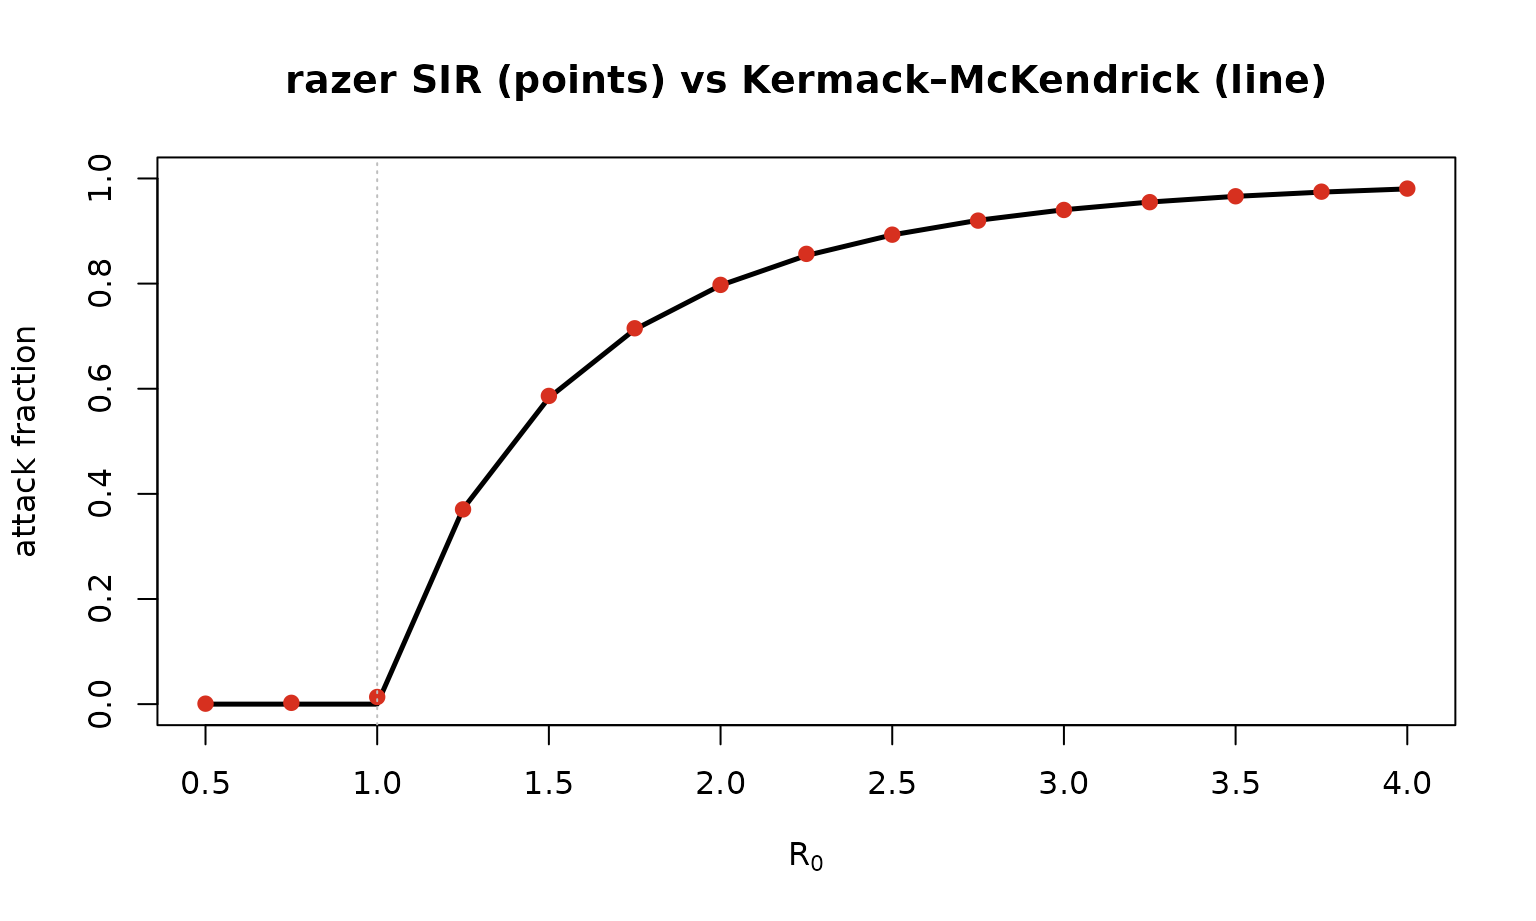
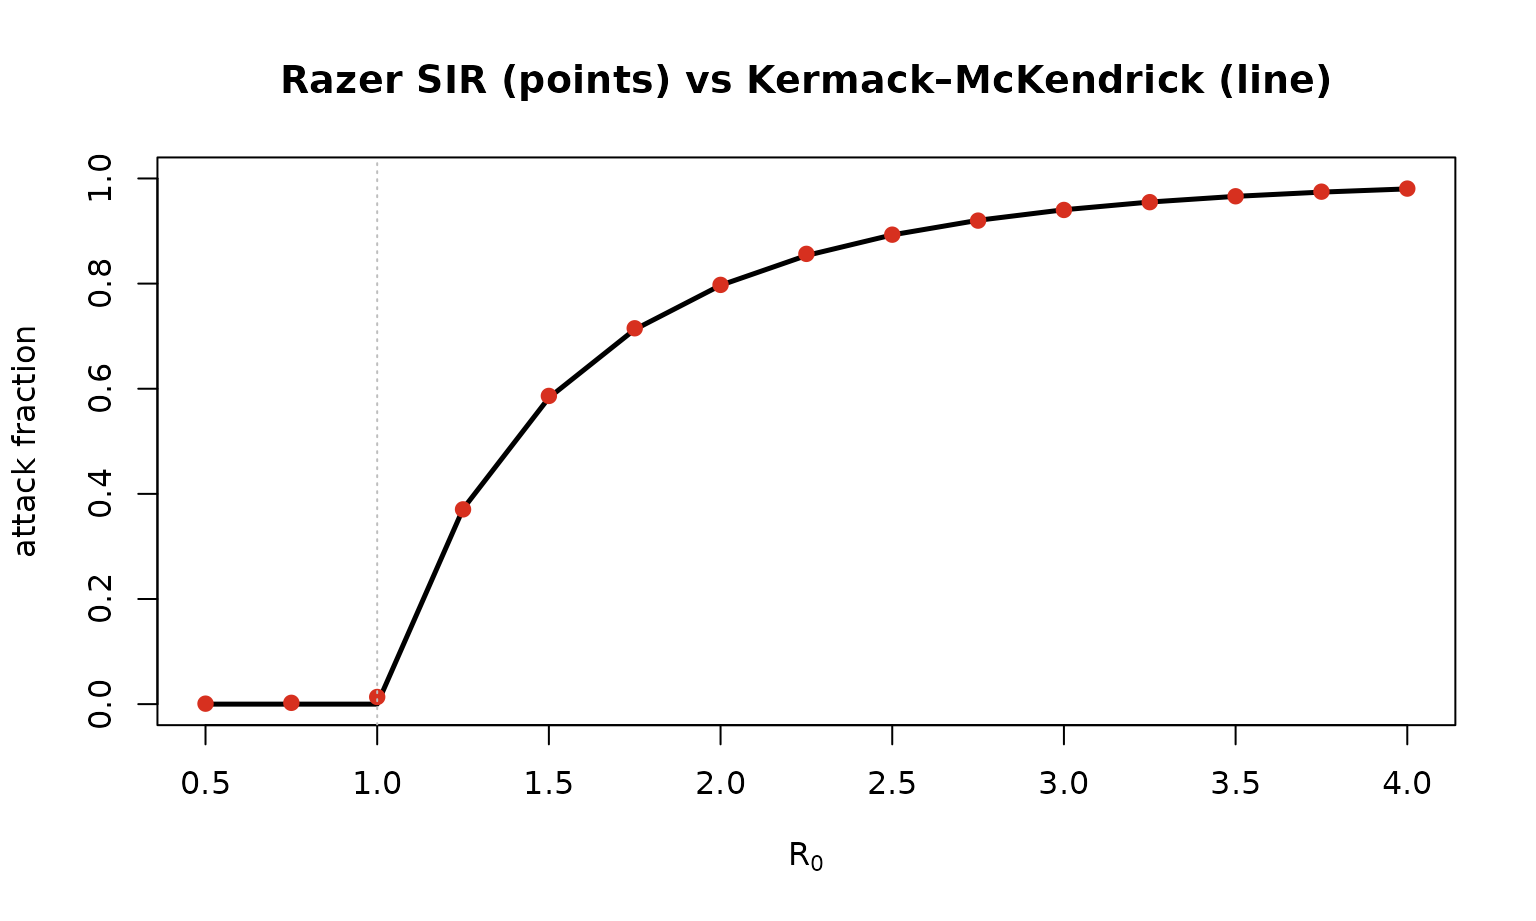
Deploying to gh-pages from @ clorton/razer@750507f7de2c34c25a90249725f2f9b4e3656f35 🚀

Changed region(s): [[0.1875, 0.0608, 0.875, 0.1216]]

diff --git a/articles/attack_fraction.html b/articles/attack_fraction.html
@@ -109,10 +109,10 @@ depends on
 and
 <math display="inline" xmlns="http://www.w3.org/1998/Math/MathML"><semantics><mi>D</mi><annotation encoding="application/x-tex">D</annotation></semantics></math>
 separately, and not on any latent period. We’ll test all of that against
-razer’s stochastic, agent-based simulation.</p>
+Razer’s stochastic, agent-based simulation.</p>
 </div>
 <div class="section level2">
-<h2 id="how-razer-builds-an-sir-and-why-r₀-βd-exactly">How razer builds an SIR — and why R₀ = β·D exactly<a class="anchor" aria-label="anchor" href="#how-razer-builds-an-sir-and-why-r%E2%82%80-%CE%B2d-exactly"></a>
+<h2 id="how-razer-builds-an-sir-and-why-r₀-βd-exactly">How Razer builds an SIR — and why R₀ = β·D exactly<a class="anchor" aria-label="anchor" href="#how-razer-builds-an-sir-and-why-r%E2%82%80-%CE%B2d-exactly"></a>
 </h2>
 <p><code><a href="../reference/run_model.html">run_model()</a></code> advances an <strong>agent-based</strong>
 SIR: every individual is a row in Rust-owned <code>Column</code> arrays
@@ -178,7 +178,7 @@ Kermack–McKendrick curve.</p>
 <span></span>
 <span><span class="fu"><a href="https://rdrr.io/r/graphics/plot.default.html" class="external-link">plot</a></span><span class="op">(</span><span class="va">R0_grid</span>, <span class="va">km</span>, type <span class="op">=</span> <span class="st">"l"</span>, lwd <span class="op">=</span> <span class="fl">2.5</span>, ylim <span class="op">=</span> <span class="fu"><a href="https://rdrr.io/r/base/c.html" class="external-link">c</a></span><span class="op">(</span><span class="fl">0</span>, <span class="fl">1</span><span class="op">)</span>,</span>
 <span>     xlab <span class="op">=</span> <span class="fu"><a href="https://rdrr.io/r/base/expression.html" class="external-link">expression</a></span><span class="op">(</span><span class="va">R</span><span class="op">[</span><span class="fl">0</span><span class="op">]</span><span class="op">)</span>, ylab <span class="op">=</span> <span class="st">"attack fraction"</span>,</span>
-<span>     main <span class="op">=</span> <span class="st">"razer SIR (points) vs Kermack–McKendrick (line)"</span><span class="op">)</span></span>
+<span>     main <span class="op">=</span> <span class="st">"Razer SIR (points) vs Kermack–McKendrick (line)"</span><span class="op">)</span></span>
 <span><span class="fu"><a href="https://rdrr.io/r/graphics/points.html" class="external-link">points</a></span><span class="op">(</span><span class="va">R0_grid</span>, <span class="va">sim</span>, pch <span class="op">=</span> <span class="fl">19</span>, col <span class="op">=</span> <span class="st">"#d7301f"</span><span class="op">)</span>; <span class="fu"><a href="https://rdrr.io/r/graphics/abline.html" class="external-link">abline</a></span><span class="op">(</span>v <span class="op">=</span> <span class="fl">1</span>, lty <span class="op">=</span> <span class="fl">3</span>, col <span class="op">=</span> <span class="st">"grey"</span><span class="op">)</span></span></code></pre></div>
 <p><img src="attack_fraction_files/figure-html/km-1.png" class="r-plt" alt="" width="768"></p>
 <div class="sourceCode" id="cb6"><pre class="downlit sourceCode r">
@@ -215,7 +215,7 @@ obeying the <em>same</em> relation in
 <span><span class="fu"><a href="https://rdrr.io/r/graphics/plot.default.html" class="external-link">plot</a></span><span class="op">(</span><span class="va">R0_grid</span>, <span class="va">km</span>, type <span class="op">=</span> <span class="st">"l"</span>, lwd <span class="op">=</span> <span class="fl">2.5</span>, ylim <span class="op">=</span> <span class="fu"><a href="https://rdrr.io/r/base/c.html" class="external-link">c</a></span><span class="op">(</span><span class="fl">0</span>, <span class="fl">1</span><span class="op">)</span>, xlab <span class="op">=</span> <span class="fu"><a href="https://rdrr.io/r/base/expression.html" class="external-link">expression</a></span><span class="op">(</span><span class="va">R</span><span class="op">[</span><span class="fl">0</span><span class="op">]</span><span class="op">)</span>,</span>
 <span>     ylab <span class="op">=</span> <span class="st">"attack fraction"</span>, main <span class="op">=</span> <span class="st">"SEIR matches the same final-size curve"</span><span class="op">)</span></span>
 <span><span class="fu"><a href="https://rdrr.io/r/graphics/points.html" class="external-link">points</a></span><span class="op">(</span><span class="va">R0_grid</span>, <span class="va">sim_se</span>, pch <span class="op">=</span> <span class="fl">17</span>, col <span class="op">=</span> <span class="st">"#7570b3"</span><span class="op">)</span>; <span class="fu"><a href="https://rdrr.io/r/graphics/abline.html" class="external-link">abline</a></span><span class="op">(</span>v <span class="op">=</span> <span class="fl">1</span>, lty <span class="op">=</span> <span class="fl">3</span>, col <span class="op">=</span> <span class="st">"grey"</span><span class="op">)</span></span>
-<span><span class="fu"><a href="https://rdrr.io/r/graphics/legend.html" class="external-link">legend</a></span><span class="op">(</span><span class="st">"bottomright"</span>, <span class="fu"><a href="https://rdrr.io/r/base/c.html" class="external-link">c</a></span><span class="op">(</span><span class="st">"Kermack–McKendrick"</span>, <span class="st">"razer SEIR"</span><span class="op">)</span>, pch <span class="op">=</span> <span class="fu"><a href="https://rdrr.io/r/base/c.html" class="external-link">c</a></span><span class="op">(</span><span class="cn">NA</span>, <span class="fl">17</span><span class="op">)</span>,</span>
+<span><span class="fu"><a href="https://rdrr.io/r/graphics/legend.html" class="external-link">legend</a></span><span class="op">(</span><span class="st">"bottomright"</span>, <span class="fu"><a href="https://rdrr.io/r/base/c.html" class="external-link">c</a></span><span class="op">(</span><span class="st">"Kermack–McKendrick"</span>, <span class="st">"Razer SEIR"</span><span class="op">)</span>, pch <span class="op">=</span> <span class="fu"><a href="https://rdrr.io/r/base/c.html" class="external-link">c</a></span><span class="op">(</span><span class="cn">NA</span>, <span class="fl">17</span><span class="op">)</span>,</span>
 <span>       lwd <span class="op">=</span> <span class="fu"><a href="https://rdrr.io/r/base/c.html" class="external-link">c</a></span><span class="op">(</span><span class="fl">2.5</span>, <span class="cn">NA</span><span class="op">)</span>, col <span class="op">=</span> <span class="fu"><a href="https://rdrr.io/r/base/c.html" class="external-link">c</a></span><span class="op">(</span><span class="st">"black"</span>, <span class="st">"#7570b3"</span><span class="op">)</span>, bty <span class="op">=</span> <span class="st">"n"</span><span class="op">)</span></span></code></pre></div>
 <p><img src="attack_fraction_files/figure-html/seir-1.png" class="r-plt" alt="" width="768"></p>
 </div>
@@ -225,7 +225,7 @@ obeying the <em>same</em> relation in
 <ul>
 <li>
 <strong>Different periods.</strong> <code>infectious_period</code> /
-<code>incubation_period</code> accept a number (a constant) or any razer
+<code>incubation_period</code> accept a number (a constant) or any Razer
 <code>Distribution</code>, e.g. <code>dist_gamma(2, 4)</code> or
 <code>dist_normal(7, 1.5)</code>. Try a fat-tailed infectious period and
 confirm the final size is unchanged (it depends on the <em>mean</em> via

diff --git a/articles/demographics.html b/articles/demographics.html
@@ -72,7 +72,7 @@ where newborns enter susceptible and the old die. That requires two
 ingredients at initialization — a realistic <strong>age
 structure</strong>, and a <strong>date of death</strong> for every agent
 (so natural mortality can simply retire agents when their clock
-arrives). razer provides both, ported from <code>laser.core</code>. No
+arrives). Razer provides both, ported from <code>laser.core</code>. No
 disease here; this is the population-building step that the
 vital-dynamics and measles models build on.</p>
 </div>
@@ -81,7 +81,7 @@ vital-dynamics and measles models build on.</p>
 </h2>
 <p>A <em>population pyramid</em> is the count of people in each age band
 (often by sex). To sample a million agents’ ages in proportion to it,
-razer builds an <strong><code>AliasedDistribution</code></strong> —
+Razer builds an <strong><code>AliasedDistribution</code></strong> —
 Walker’s alias method, which draws from an arbitrary discrete
 distribution in <strong>O(1)</strong> per sample after an O(k) setup,
 far faster than a cumulative-sum search.
@@ -100,7 +100,7 @@ returning ages in <strong>days</strong>.</p>
 <div class="section level2">
 <h2 id="a-date-of-death-kaplanmeier-conditioned-on-current-age">A date of death (Kaplan–Meier, conditioned on current age)<a class="anchor" aria-label="anchor" href="#a-date-of-death-kaplanmeier-conditioned-on-current-age"></a>
 </h2>
-<p>We want each agent’s <em>age at death</em>. razer’s
+<p>We want each agent’s <em>age at death</em>. Razer’s
 <strong><code>KaplanMeierEstimator</code></strong> takes a life table —
 <strong>cumulative deaths by year</strong> for a synthetic cohort — and
 samples an age at death for each agent <strong>conditioned on the age it
@@ -140,7 +140,7 @@ rate — by running a cohort through it.</p>
 <div class="section level2">
 <h2 id="how-this-feeds-a-model">How this feeds a model<a class="anchor" aria-label="anchor" href="#how-this-feeds-a-model"></a>
 </h2>
-<p>Store the results as per-agent Columns and the rest of razer can use
+<p>Store the results as per-agent Columns and the rest of Razer can use
 them:</p>
 <ul>
 <li>

diff --git a/index.html b/index.html
@@ -48,15 +48,15 @@
 </nav><div class="container template-home">
 <div class="row">
   <main id="main" class="col-md-9"><div class="section level1">
-<div class="page-header"><h1 id="razer">razer<a class="anchor" aria-label="anchor" href="#razer"></a>
+<div class="page-header"><h1 id="razer">Razer<a class="anchor" aria-label="anchor" href="#razer"></a>
 </h1></div>
 <p><strong>R</strong>ust-backed <strong>A</strong>gent modeling with <strong>Z</strong>ero-copy typed arrays for <strong>E</strong>radication <strong>R</strong>esearch</p>
-<p><code>razer</code> is an R interface to the <a href="https://github.com/laser-base" class="external-link">LASER</a> (Light Agent Spatial modeling for ERadication) toolkit. It provides high-performance, Rust-backed data structures and composable kernels for large-scale spatial agent-based disease models. The name is a deliberate pun: “raze” means to eradicate completely, “razor” echoes LASER, and the trailing R anchors it to R.</p>
+<p><code>Razer</code> is an R interface to the <a href="https://github.com/laser-base" class="external-link">LASER</a> (Light Agent Spatial modeling for ERadication) toolkit. It provides high-performance, Rust-backed data structures and composable kernels for large-scale spatial agent-based disease models. The name is a deliberate pun: “raze” means to eradicate completely, “razor” echoes LASER, and the trailing R anchors it to R.</p>
 <div class="section level2">
 <h2 id="background-the-python-laser-project">Background: the Python LASER project<a class="anchor" aria-label="anchor" href="#background-the-python-laser-project"></a>
 </h2>
 <p><a href="https://github.com/laser-base" class="external-link">LASER</a> is a Python framework developed at the Institute for Disease Modeling for building fast, composable agent-based disease models at national and global scale. Its core design insight is the <strong>struct-of-arrays (SoA)</strong> memory layout: instead of one object per agent, each agent <em>property</em> is a flat array, and all active agents are a contiguous slice of that array — cache-friendly for the vectorized, Numba-JIT-compiled kernels that drive LASER’s performance.</p>
-<p><code>razer</code> ports this memory model to R. Each agent property is a Rust-owned, dtype-tagged array — a <code>Column</code> — that R holds only as an opaque external-pointer handle (via the <a href="https://extendr.github.io/" class="external-link">extendr</a> framework). The per-tick simulation kernels borrow these arrays directly and mutate them in place with no copies, splitting the per-agent work across CPU cores with <a href="https://github.com/rayon-rs/rayon" class="external-link">Rayon</a>. Data crosses back into R only on explicit inspection (<code>$values()</code>).</p>
+<p><code>Razer</code> ports this memory model to R. Each agent property is a Rust-owned, dtype-tagged array — a <code>Column</code> — that R holds only as an opaque external-pointer handle (via the <a href="https://extendr.github.io/" class="external-link">extendr</a> framework). The per-tick simulation kernels borrow these arrays directly and mutate them in place with no copies, splitting the per-agent work across CPU cores with <a href="https://github.com/rayon-rs/rayon" class="external-link">Rayon</a>. Data crosses back into R only on explicit inspection (<code>$values()</code>).</p>
 </div>
 <div class="section level2">
 <h2 id="requirements">Requirements<a class="anchor" aria-label="anchor" href="#requirements"></a>
@@ -152,7 +152,7 @@
 <div class="section level2">
 <h2 id="examples-and-articles">Examples and articles<a class="anchor" aria-label="anchor" href="#examples-and-articles"></a>
 </h2>
-<p>Every model ships as both a <strong>runnable script</strong> in <a href="https://github.com/clorton/razer/tree/main/examples" class="external-link"><code>examples/</code></a> (<code>Rscript examples/&lt;name&gt;.R</code>; plots written to <code>examples/output/</code>) and a paired, annotated <strong>teaching article</strong> on the <a href="https://clorton.github.io/razer/articles/">package website</a>. Each article walks through the epidemiology, the razer code that builds the model, and how to customize or extend it:</p>
+<p>Every model ships as both a <strong>runnable script</strong> in <a href="https://github.com/clorton/razer/tree/main/examples" class="external-link"><code>examples/</code></a> (<code>Rscript examples/&lt;name&gt;.R</code>; plots written to <code>examples/output/</code>) and a paired, annotated <strong>teaching article</strong> on the <a href="https://clorton.github.io/razer/articles/">package website</a>. Each article walks through the epidemiology, the Razer code that builds the model, and how to customize or extend it:</p>
 <ul>
 <li>
 <strong><a href="https://clorton.github.io/razer/articles/getting_started.html">Getting started</a></strong> — the <code><a href="reference/run_model.html">run_model()</a></code> workflow, a model comparison, and a callback-based intervention.</li>

diff --git a/articles/getting_started.html b/articles/getting_started.html
@@ -5,12 +5,12 @@
 <meta charset="utf-8">
 <meta http-equiv="X-UA-Compatible" content="IE=edge">
 <meta name="viewport" content="width=device-width, initial-scale=1, shrink-to-fit=no">
-<title>razer — getting started (R Notebook) • razer</title>
+<title>Razer — getting started (R Notebook) • razer</title>
 <script src="../deps/jquery-3.6.0/jquery-3.6.0.min.js"></script><meta name="viewport" content="width=device-width, initial-scale=1, shrink-to-fit=no">
 <link href="../deps/bootstrap-5.3.8/bootstrap.min.css" rel="stylesheet">
 <script src="../deps/bootstrap-5.3.8/bootstrap.bundle.min.js"></script><link href="../deps/font-awesome-6.5.2/css/all.min.css" rel="stylesheet">
 <link href="../deps/font-awesome-6.5.2/css/v4-shims.min.css" rel="stylesheet">
-<script src="../deps/headroom-0.11.0/headroom.min.js"></script><script src="../deps/headroom-0.11.0/jQuery.headroom.min.js"></script><script src="../deps/bootstrap-toc-1.0.1/bootstrap-toc.min.js"></script><script src="../deps/clipboard.js-2.0.11/clipboard.min.js"></script><script src="../deps/search-1.0.0/autocomplete.jquery.min.js"></script><script src="../deps/search-1.0.0/fuse.min.js"></script><script src="../deps/search-1.0.0/mark.min.js"></script><!-- pkgdown --><script src="../pkgdown.js"></script><meta property="og:title" content="razer — getting started (R Notebook)">
+<script src="../deps/headroom-0.11.0/headroom.min.js"></script><script src="../deps/headroom-0.11.0/jQuery.headroom.min.js"></script><script src="../deps/bootstrap-toc-1.0.1/bootstrap-toc.min.js"></script><script src="../deps/clipboard.js-2.0.11/clipboard.min.js"></script><script src="../deps/search-1.0.0/autocomplete.jquery.min.js"></script><script src="../deps/search-1.0.0/fuse.min.js"></script><script src="../deps/search-1.0.0/mark.min.js"></script><!-- pkgdown --><script src="../pkgdown.js"></script><meta property="og:title" content="Razer — getting started (R Notebook)">
 </head>
 <body>
     <a href="#main" class="visually-hidden-focusable">Skip to contents</a>
@@ -51,7 +51,7 @@
 <div class="row">
   <main id="main" class="col-md-9"><div class="page-header">
 
-      <h1>razer — getting started (R Notebook)</h1>
+      <h1>Razer — getting started (R Notebook)</h1>
             
       
       <small class="dont-index">Source: <a href="https://github.com/clorton/razer/blob/main/vignettes/articles/getting_started.Rmd" class="external-link"><code>vignettes/articles/getting_started.Rmd</code></a></small>

diff --git a/articles/interventions.html b/articles/interventions.html
@@ -64,14 +64,14 @@
 <p>Companion to <a href="https://github.com/clorton/razer/blob/main/examples/sia_campaigns.R" class="external-link"><code>examples/sia_campaigns.R</code></a>,
 <a href="https://github.com/clorton/razer/blob/main/examples/sia_campaigns_waning.R" class="external-link"><code>examples/sia_campaigns_waning.R</code></a>,
 and <a href="https://github.com/clorton/razer/blob/main/examples/quarantine.R" class="external-link"><code>examples/quarantine.R</code></a>.
-This notebook is about <strong>extending</strong> razer.</p>
+This notebook is about <strong>extending</strong> Razer.</p>
 </blockquote>
 <div class="section level2">
 <h2 id="the-extension-toolkit">The extension toolkit<a class="anchor" aria-label="anchor" href="#the-extension-toolkit"></a>
 </h2>
 <p><code><a href="../reference/run_model.html">run_model()</a></code> runs the built-in S/E/I/R disease step, but
 most public-health questions need <em>extra</em> states and
-<em>interventions</em>. razer exposes four hooks so you never have to
+<em>interventions</em>. Razer exposes four hooks so you never have to
 fork the runner or write a Rust kernel:</p>
 <table class="table">
 <colgroup>

diff --git a/articles/spatial_metapopulation.html b/articles/spatial_metapopulation.html
@@ -74,7 +74,7 @@ drives the phenomena a single-patch model can’t show: spatial
 <strong>invasion waves</strong>, <strong>rescue</strong> of a faded-out
 patch by its neighbours, and partial <strong>synchrony</strong> between
 patches.</p>
-<p>razer models a metapopulation as
+<p>Razer models a metapopulation as
 <math display="inline" xmlns="http://www.w3.org/1998/Math/MathML"><semantics><mi>n</mi><annotation encoding="application/x-tex">n</annotation></semantics></math>
 patches each running the usual SIR transmission, plus a coupling matrix
 <math display="inline" xmlns="http://www.w3.org/1998/Math/MathML"><semantics><mi>W</mi><annotation encoding="application/x-tex">W</annotation></semantics></math>
@@ -95,7 +95,7 @@ every other patch’s.</p>
 <h2 id="building-a-coupling-network">Building a coupling network<a class="anchor" aria-label="anchor" href="#building-a-coupling-network"></a>
 </h2>
 <p>We use the England &amp; Wales measles patches (954 registration
-districts, each with a 1944 population and a latitude/longitude). razer
+districts, each with a 1944 population and a latitude/longitude). Razer
 ships several <strong>migration models</strong> that turn pairwise
 distances + populations into a weight matrix — <code><a href="../reference/gravity.html">gravity()</a></code>,
 <code><a href="../reference/radiation.html">radiation()</a></code>, <code><a href="../reference/stouffer.html">stouffer()</a></code>,

diff --git a/articles/vital_dynamics_measles.html b/articles/vital_dynamics_measles.html
@@ -88,9 +88,9 @@ damped/forced <strong>recurrent epidemics</strong> familiar from
 pre-vaccination measles.</p>
 </div>
 <div class="section level2">
-<h2 id="how-razer-assembles-it">How razer assembles it<a class="anchor" aria-label="anchor" href="#how-razer-assembles-it"></a>
+<h2 id="how-razer-assembles-it">How Razer assembles it<a class="anchor" aria-label="anchor" href="#how-razer-assembles-it"></a>
 </h2>
-<p>This is where razer’s extensibility pays off — no kernel changes,
+<p>This is where Razer’s extensibility pays off — no kernel changes,
 just <code><a href="../reference/run_model.html">run_model()</a></code> knobs:</p>
 <ul>
 <li>

diff --git a/reference/KaplanMeierEstimator.html b/reference/KaplanMeierEstimator.html
@@ -119,12 +119,12 @@ be <code>&lt; (max_year + 1) * 365</code>.</p>
     <div class="sourceCode"><pre class="sourceCode r"><code><span class="r-in"><span><span class="co">## ---- Method `predict_year_of_death` ---- ##</span></span></span>
 <span class="r-in"><span><span class="va">km</span> <span class="op">&lt;-</span> <span class="fu"><a href="kaplan_meier_estimator.html">kaplan_meier_estimator</a></span><span class="op">(</span><span class="fu"><a href="https://rdrr.io/r/base/cumsum.html" class="external-link">cumsum</a></span><span class="op">(</span><span class="fu"><a href="https://rdrr.io/r/base/c.html" class="external-link">c</a></span><span class="op">(</span><span class="fu"><a href="https://rdrr.io/r/base/rep.html" class="external-link">rep</a></span><span class="op">(</span><span class="fl">10</span>, <span class="fl">80</span><span class="op">)</span>, <span class="fu"><a href="https://rdrr.io/r/base/rep.html" class="external-link">rep</a></span><span class="op">(</span><span class="fl">100</span>, <span class="fl">21</span><span class="op">)</span><span class="op">)</span><span class="op">)</span><span class="op">)</span></span></span>
 <span class="r-in"><span><span class="va">km</span><span class="op">$</span><span class="fu">predict_year_of_death</span><span class="op">(</span><span class="fu"><a href="https://rdrr.io/r/base/c.html" class="external-link">c</a></span><span class="op">(</span><span class="fl">40L</span>, <span class="fl">50L</span>, <span class="fl">60L</span><span class="op">)</span>, <span class="op">-</span><span class="fl">1L</span><span class="op">)</span></span></span>
-<span class="r-out co"><span class="r-pr">#&gt;</span> [1] 80 98 63</span>
+<span class="r-out co"><span class="r-pr">#&gt;</span> [1] 82 95 99</span>
 <span class="r-in"><span></span></span>
 <span class="r-in"><span><span class="co">## ---- Method `predict_age_at_death` ---- ##</span></span></span>
 <span class="r-in"><span><span class="va">km</span> <span class="op">&lt;-</span> <span class="fu"><a href="kaplan_meier_estimator.html">kaplan_meier_estimator</a></span><span class="op">(</span><span class="fu"><a href="https://rdrr.io/r/base/cumsum.html" class="external-link">cumsum</a></span><span class="op">(</span><span class="fu"><a href="https://rdrr.io/r/base/c.html" class="external-link">c</a></span><span class="op">(</span><span class="fu"><a href="https://rdrr.io/r/base/rep.html" class="external-link">rep</a></span><span class="op">(</span><span class="fl">10</span>, <span class="fl">80</span><span class="op">)</span>, <span class="fu"><a href="https://rdrr.io/r/base/rep.html" class="external-link">rep</a></span><span class="op">(</span><span class="fl">100</span>, <span class="fl">21</span><span class="op">)</span><span class="op">)</span><span class="op">)</span><span class="op">)</span></span></span>
 <span class="r-in"><span><span class="va">km</span><span class="op">$</span><span class="fu">predict_age_at_death</span><span class="op">(</span><span class="fu"><a href="https://rdrr.io/r/base/c.html" class="external-link">c</a></span><span class="op">(</span><span class="fl">40L</span>, <span class="fl">50L</span>, <span class="fl">60L</span><span class="op">)</span> <span class="op">*</span> <span class="fl">365L</span>, <span class="op">-</span><span class="fl">1L</span><span class="op">)</span></span></span>
-<span class="r-out co"><span class="r-pr">#&gt;</span> [1] 30601 29766 33850</span>
+<span class="r-out co"><span class="r-pr">#&gt;</span> [1] 30831 31785 34814</span>
 <span class="r-in"><span></span></span>
 <span class="r-in"><span></span></span>
 </code></pre></div>

diff --git a/reference/values_map.html b/reference/values_map.html
@@ -90,11 +90,11 @@ Pass an explicit matrix to vary by both in that case.</p>
 <span class="r-in"><span><span class="fu"><a href="https://rdrr.io/r/base/dim.html" class="external-link">dim</a></span><span class="op">(</span><span class="va">g</span><span class="op">$</span><span class="fu">values</span><span class="op">(</span><span class="op">)</span><span class="op">)</span>                       <span class="co"># 10 3</span></span></span>
 <span class="r-out co"><span class="r-pr">#&gt;</span> [1] 10  3</span>
 <span class="r-in"><span><span class="fu">values_map</span><span class="op">(</span><span class="fu"><a href="https://rdrr.io/r/base/c.html" class="external-link">c</a></span><span class="op">(</span><span class="fl">1</span>, <span class="fl">2</span>, <span class="fl">3</span><span class="op">)</span>, <span class="fl">10L</span>, <span class="fl">3L</span><span class="op">)</span>       <span class="co"># per-node (length n_nodes)</span></span></span>
-<span class="r-out co"><span class="r-pr">#&gt;</span> &lt;pointer: 0x55cdd51aae40&gt;</span>
+<span class="r-out co"><span class="r-pr">#&gt;</span> &lt;pointer: 0x55dcfa470980&gt;</span>
 <span class="r-out co"><span class="r-pr">#&gt;</span> attr(,"class")</span>
 <span class="r-out co"><span class="r-pr">#&gt;</span> [1] "Column"</span>
 <span class="r-in"><span><span class="fu">values_map</span><span class="op">(</span><span class="fu"><a href="https://rdrr.io/r/base/seq.html" class="external-link">seq_len</a></span><span class="op">(</span><span class="fl">10L</span><span class="op">)</span>, <span class="fl">10L</span>, <span class="fl">3L</span><span class="op">)</span>     <span class="co"># per-tick (length n_ticks)</span></span></span>
-<span class="r-out co"><span class="r-pr">#&gt;</span> &lt;pointer: 0x55cdd6c7c0d0&gt;</span>
+<span class="r-out co"><span class="r-pr">#&gt;</span> &lt;pointer: 0x55dcf7d61780&gt;</span>
 <span class="r-out co"><span class="r-pr">#&gt;</span> attr(,"class")</span>
 <span class="r-out co"><span class="r-pr">#&gt;</span> [1] "Column"</span>
 </code></pre></div>

diff --git a/articles/endemic_dynamics.html b/articles/endemic_dynamics.html
@@ -90,7 +90,7 @@ and the epidemic grows; below, it shrinks. The approach to
 is a series of damped epidemic waves.</p>
 </div>
 <div class="section level2">
-<h2 id="how-razer-builds-it">How razer builds it<a class="anchor" aria-label="anchor" href="#how-razer-builds-it"></a>
+<h2 id="how-razer-builds-it">How Razer builds it<a class="anchor" aria-label="anchor" href="#how-razer-builds-it"></a>
 </h2>
 <p><code><a href="../reference/run_model.html">run_model()</a></code> itself is <strong>closed-population</strong>
 (it allocates exactly the initial agents). Vital dynamics and

diff --git a/articles/index.html b/articles/index.html
@@ -36,7 +36,7 @@
       <h3>Foundations</h3>
       <div class="section-desc"><p>Start here: the run_model() workflow, epidemic final size, and the endemic equilibrium.</p></div>
 
-      <dl><dt><a href="getting_started.html">razer — getting started (R Notebook)</a></dt>
+      <dl><dt><a href="getting_started.html">Razer — getting started (R Notebook)</a></dt>
         <dd>
         </dd><dt><a href="attack_fraction.html">Epidemic final size: R₀, the attack fraction, and Kermack–McKendrick</a></dt>
         <dd>

diff --git a/articles/long_runs_and_memory.html b/articles/long_runs_and_memory.html
@@ -67,7 +67,7 @@
 <div class="section level2">
 <h2 id="the-problem-agents-accumulate">The problem: agents accumulate<a class="anchor" aria-label="anchor" href="#the-problem-agents-accumulate"></a>
 </h2>
-<p>razer is <strong>agent-based</strong> — every individual occupies a
+<p>Razer is <strong>agent-based</strong> — every individual occupies a
 slot in fixed-size <code>Column</code> arrays. A closed population is
 easy: allocate exactly
 <math display="inline" xmlns="http://www.w3.org/1998/Math/MathML"><semantics><mi>N</mi><annotation encoding="application/x-tex">N</annotation></semantics></math>